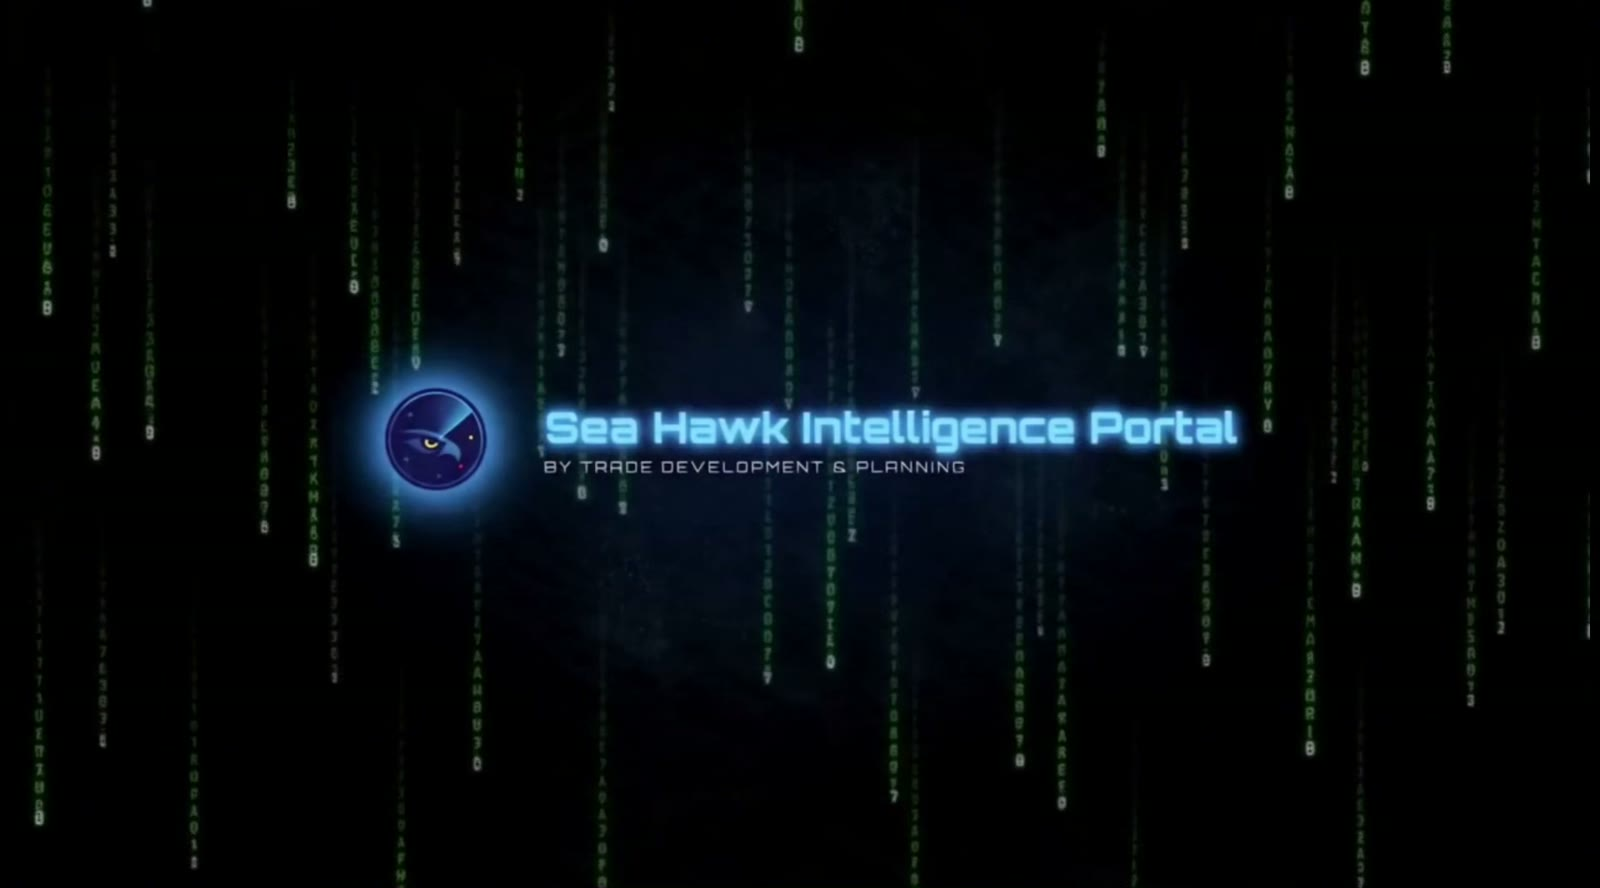
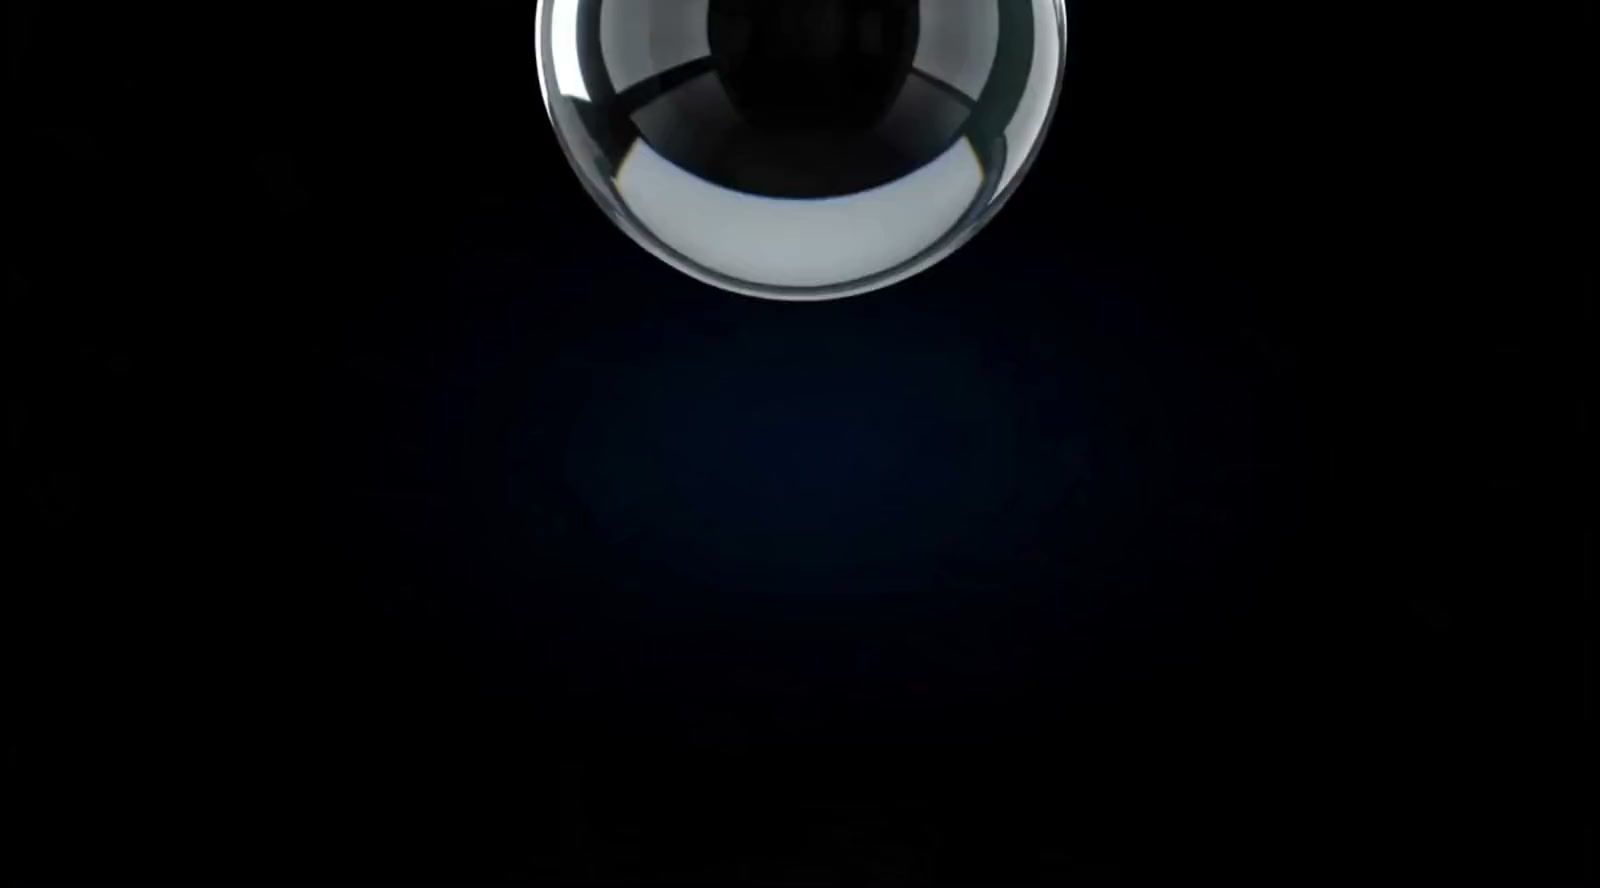
Update walkthrough video poster to the opening orb frame

diff --git a/index.html b/index.html
@@ -1201,7 +1201,7 @@ footer{border-top:1px solid var(--line); padding:64px 0 40px; position:relative;
   <div class="vm-dialog">
     <button class="vm-close" id="vm-close" type="button" aria-label="Close video"><svg viewBox="0 0 24 24" fill="none" stroke="currentColor" stroke-width="2" stroke-linecap="round"><path d="M6 6l12 12M18 6L6 18"/></svg></button>
     <div class="intro-frame">
-      <video class="intro-video" id="intro-video" poster="source-assets/images/ship-intro-poster.jpg" preload="none" playsinline muted>
+      <video class="intro-video" id="intro-video" poster="source-assets/images/ship-intro-poster.jpg?v=2" preload="none" playsinline muted>
         <source src="source-assets/video/ship-intro.mp4" type="video/mp4">
       </video>
       <button class="intro-play" id="intro-play" type="button" aria-label="Play the SHIP introduction video">